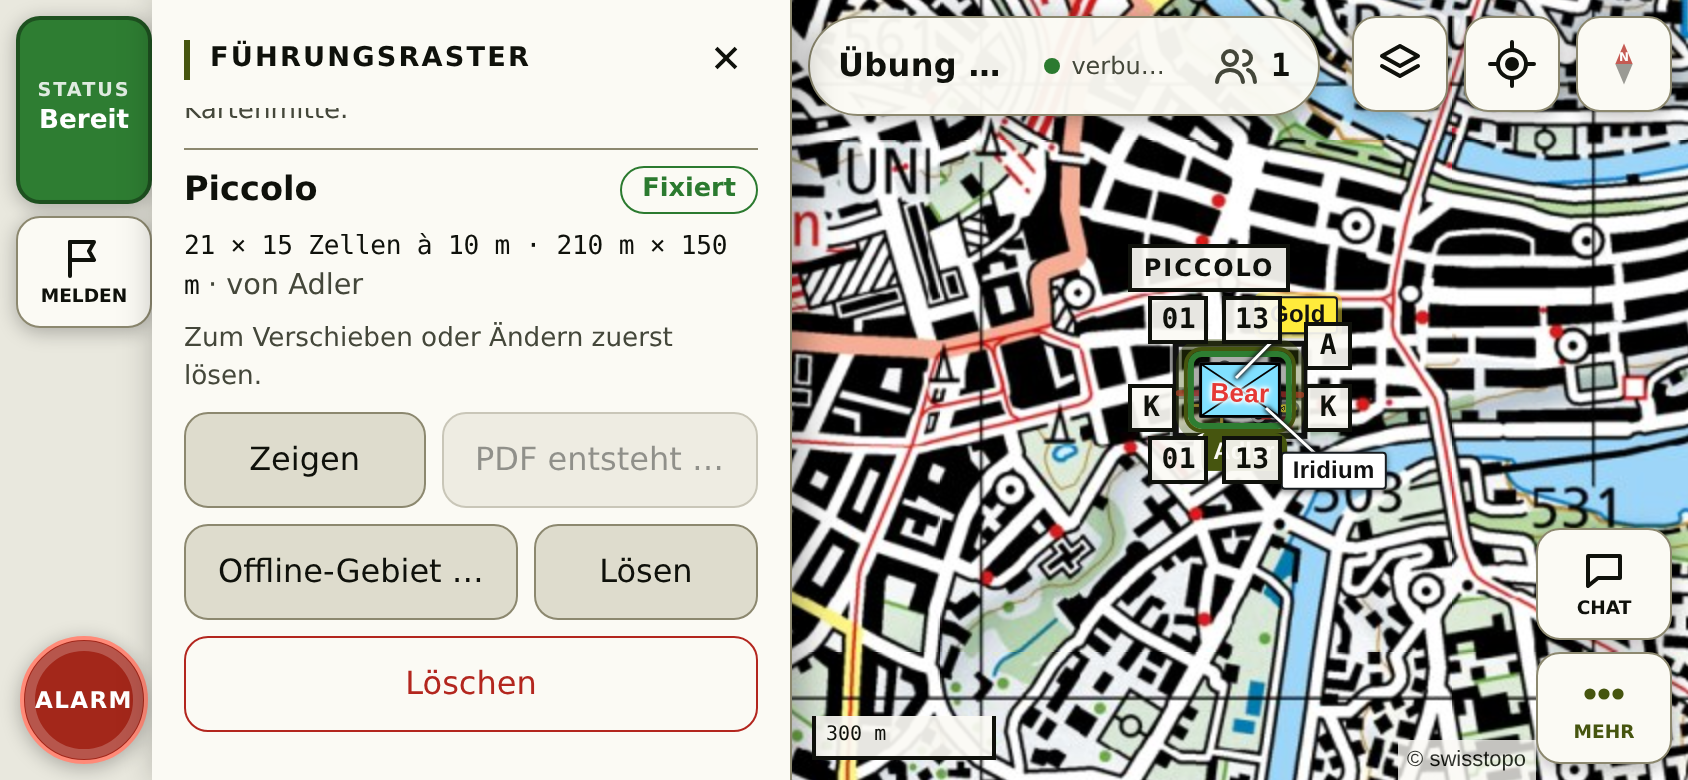
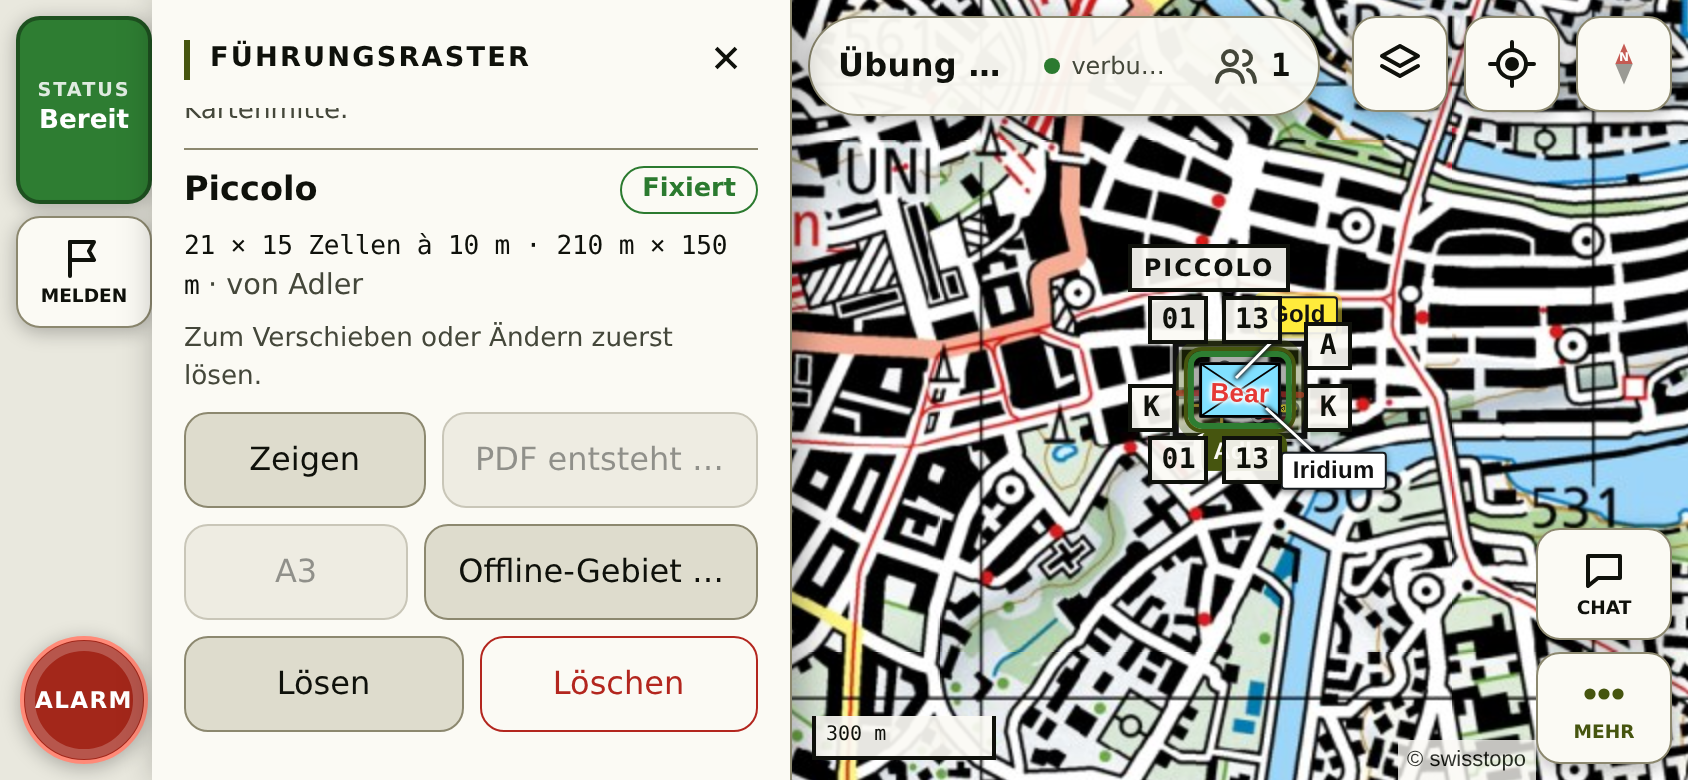
feat: Raster-PDF wahlweise A3, Strassen mit Linie
Claude-Session: https://claude.ai/code/session_01Fo5QxxrixuCWEFZHSUx93F

Changed region(s): [[0.0924, 0.6462, 0.4005, 0.9538]]

diff --git a/client/src/features/raster/ausdruck.ts b/client/src/features/raster/ausdruck.ts
@@ -10,10 +10,10 @@ import { drossel, PARALLEL } from '../offline/laden.ts';
 import { FASSADE_FARBE } from '../taufe/fassaden.ts';
 import { FAMILIE_FARBE, LABEL_RANG, labelAnker, platziere, polygoneVon, taufFeatures, ZIEL_FARBE, type LabelWunsch } from '../taufe/darstellung.ts';
 import type { Xy } from './beschriftung.ts';
-import { blatt, blattFelder, dateiName, TILE, kachelPlan, type Blatt, type Feld, type KachelPlan, type SeitenArt } from './druck.ts';
+import { A4_QUER, blatt, blattFelder, dateiName, TILE, kachelPlan, type Blatt, type Feld, type KachelPlan, type Format, type SeitenArt } from './druck.ts';
 import { pdfAusJpegs } from './pdf.ts';
 
-/** 200 dpi: A4 quer = 2339 × 1654 px je Seite */
+/** 200 dpi: A4 quer = 2339 × 1654 px je Seite, A3 quer 3308 × 2339 */
 const PX_JE_PT = 200 / 72;
 const DUNKEL = '#161b1f';
 /** Grau der Kopffelder (Vorlage) */
@@ -174,6 +174,8 @@ function zeichneFelder(ctx: CanvasRenderingContext2D, r: Raster, b: Blatt, felde
 
 const ALPHA_FLAECHE: Partial<Record<string, number>> = { wald: 0.38, gebaeude: 0.14, gewaesser: 0.28 };
 
+const teile = (g: GeoJSON.Geometry): Pos[][] => (g.type === 'LineString' ? [g.coordinates as Pos[]] : (g as GeoJSON.MultiLineString).coordinates as Pos[][]);
+
 function zeichneTaufen(ctx: CanvasRenderingContext2D, taufen: Taufe[], b: Blatt) {
   const p = ([lon, lat]: Pos): Xy => b.zu(zuLv95({ lat, lon }));
   const pfad = (ringe: Pos[][]) => {
@@ -199,9 +201,12 @@ function zeichneTaufen(ctx: CanvasRenderingContext2D, taufen: Taufe[], b: Blatt)
         }
       }
     } else if (rolle === 'linie') {
-      if (familie === 'strasse') continue; // Vorlage: Strassen nur als rote Schrift entlang der Achse
-      const teile = g.type === 'LineString' ? [g.coordinates as Pos[]] : (g as GeoJSON.MultiLineString).coordinates as Pos[][];
-      for (const t of teile) {
+      if (familie === 'strasse') {
+        // dünne Linie unter der roten Schrift: zeigt die Ausdehnung langer Abschnitte
+        for (const t of teile(g)) (linie(ctx, t.map(p), '#fff', 2.2, 0.45), linie(ctx, t.map(p), farbe, 0.9, 0.8));
+        continue;
+      }
+      for (const t of teile(g)) {
         linie(ctx, t.map(p), DUNKEL, 3.2, 0.35);
         linie(ctx, t.map(p), farbe, 1.6, 0.75);
       }
@@ -308,10 +313,11 @@ async function seite(r: Raster, b: Blatt, karte: Karte, art: SeitenArt, lage: st
   canvas.width = Math.round(b.format.w * PX_JE_PT);
   canvas.height = Math.round(b.format.h * PX_JE_PT);
   const ctx = canvas.getContext('2d')!;
-  const basis = () => ctx.setTransform(PX_JE_PT, 0, 0, PX_JE_PT, 0, 0);
+  const px = PX_JE_PT * b.format.k; // Pixel je Layoutpunkt
+  const basis = () => ctx.setTransform(px, 0, 0, px, 0, 0);
   basis();
   ctx.fillStyle = '#fff';
-  ctx.fillRect(0, 0, b.format.w, b.format.h);
+  ctx.fillRect(0, 0, b.format.w / b.format.k, b.format.h / b.format.k);
   const { x, y, w, h } = b.rahmen;
   ctx.save();
   ctx.beginPath();
@@ -337,9 +343,9 @@ const SEITEN: [Basiskarte, SeitenArt[]][] = [
 ];
 
 /** PDF mit drei Seiten (Luftbild, SpotMap, Landeskarte). `fehlen`: Kacheln, die weder offline noch im Netz da waren. */
-export async function rasterPdf(r: Raster, lage: string, taufen: Taufe[], datum = new Date()): Promise<{ blob: Blob; name: string; fehlen: number }> {
-  const b = blatt(r);
-  const plan = kachelPlan(b, PX_JE_PT);
+export async function rasterPdf(r: Raster, lage: string, taufen: Taufe[], datum = new Date(), format: Format = A4_QUER): Promise<{ blob: Blob; name: string; fehlen: number }> {
+  const b = blatt(r, format);
+  const plan = kachelPlan(b, PX_JE_PT * format.k);
   const px = { pxW: Math.round(b.format.w * PX_JE_PT), pxH: Math.round(b.format.h * PX_JE_PT) };
   const seiten = [];
   let fehlen = 0;

diff --git a/client/src/features/raster/druck.ts b/client/src/features/raster/druck.ts
@@ -6,9 +6,10 @@ import type { RasterArt } from '../../../../shared/protocol.ts';
 import { RASTER_NAME, spaltenName, vonLv95, rasterMitteLv95, zeilenName, type Lv95, type RasterGeo } from '../../../../shared/raster.ts';
 import type { Xy } from './beschriftung.ts';
 
-export type Format = { name: string; w: number; h: number };
-export const A4_QUER: Format = { name: 'A4', w: 842, h: 595 };
-// ponytail: nur A4 in der Bedienung; A3 quer wäre { name: 'A3', w: 1191, h: 842 }, alles Weitere rechnet sich gleich.
+/** Blatt in Punkt; `k` = Vergrösserung gegenüber A4. Geometrie und Schriften rechnen in A4-Punkten (Blatt ÷ k), das Canvas skaliert um k. */
+export type Format = { name: string; w: number; h: number; k: number };
+export const A4_QUER: Format = { name: 'A4', w: 842, h: 595, k: 1 };
+export const A3_QUER: Format = { name: 'A3', w: 1191, h: 842, k: 1191 / 842 };
 
 export type Rechteck = { x: number; y: number; w: number; h: number };
 /** Punkt auf Papier in Metern */
@@ -31,7 +32,7 @@ export type Blatt = {
   tabelle: Rechteck;
   /** Massstabszahl N (1:N) */
   massstab: number;
-  /** Blattpunkte je Meter im Gelände */
+  /** Layoutpunkte (A4-Punkte) je Meter im Gelände */
   ptJeM: number;
   zu: (p: Lv95) => Xy;
   von: (p: Xy) => Lv95;
@@ -48,15 +49,17 @@ export function runderMassstab(n: number): number {
  * Karte, Spaltenköpfe, Lagezeile; waagrecht: Zeilenköpfe, Karte, Zeilenköpfe.
  */
 export function blatt(r: RasterGeo, format: Format = A4_QUER): Blatt {
-  const platzW = format.w - 2 * RAND - 2 * ZEILE_W;
-  const platzH = format.h - 2 * RAND - 4 * BAND;
+  const lw = format.w / format.k;
+  const lh = format.h / format.k;
+  const platzW = lw - 2 * RAND - 2 * ZEILE_W;
+  const platzH = lh - 2 * RAND - 4 * BAND;
   const breiteM = r.spalten * r.zellM;
   const hoeheM = r.zeilen * r.zellM;
-  const massstab = runderMassstab(Math.max(breiteM / platzW, hoeheM / platzH) / M_JE_PT);
-  const ptJeM = 1 / (massstab * M_JE_PT);
+  const massstab = runderMassstab(Math.max(breiteM / platzW, hoeheM / platzH) / (M_JE_PT * format.k));
+  const ptJeM = 1 / (massstab * M_JE_PT * format.k);
   const mitte = rasterMitteLv95(r);
-  const cx = format.w / 2;
-  const cy = format.h / 2;
+  const cx = lw / 2;
+  const cy = lh / 2;
   const zu = (p: Lv95): Xy => ({ x: cx + (p.e - mitte.e) * ptJeM, y: cy - (p.n - mitte.n) * ptJeM });
   const von = (p: Xy): Lv95 => ({ e: mitte.e + (p.x - cx) / ptJeM, n: mitte.n - (p.y - cy) / ptJeM });
   const ol = zu({ e: r.e, n: r.n });

diff --git a/client/src/features/raster/Panel.svelte b/client/src/features/raster/Panel.svelte
@@ -57,11 +57,12 @@
   const passt = (r: Raster, zeilen: number, spalten: number, zellM = r.zellM) => Math.max(zeilen, spalten) * zellM <= RASTER_MAX_AUSDEHNUNG_M;
   /** Art, deren PDF gerade entsteht */
   let pdfLaeuft = $state<RasterArt | null>(null);
-  async function alsPdf(r: Raster) {
+  async function alsPdf(r: Raster, a3 = false) {
     pdfLaeuft = r.art;
     try {
       const { rasterPdf, speichere } = await import('./ausdruck.ts'); // PDF-Druck erst bei Bedarf laden
-      const { blob, name: datei, fehlen } = await rasterPdf(r, store.lage?.name ?? 'Lage', [...store.taufen.values()]);
+      const { A3_QUER, A4_QUER } = await import('./druck.ts');
+      const { blob, name: datei, fehlen } = await rasterPdf(r, store.lage?.name ?? 'Lage', [...store.taufen.values()], new Date(), a3 ? A3_QUER : A4_QUER);
       if (!(await speichere(blob, datei))) toast('PDF braucht eine neuere App-Version – im Browser öffnen.', 5000);
       else if (fehlen) toast(`PDF erstellt, ${fehlen} Kartenkacheln fehlen (offline?).`, 5000);
     } catch (e) {
@@ -127,6 +128,7 @@
           <div class="aktionen">
             <button onclick={() => zeigeRaster(r)}>Zeigen</button>
             <button disabled={pdfLaeuft !== null} onclick={() => alsPdf(r)}>{pdfLaeuft === art ? 'PDF entsteht …' : 'Als PDF'}</button>
+            <button disabled={pdfLaeuft !== null} title="PDF auf A3 quer" onclick={() => alsPdf(r, true)}>A3</button>
             <button onclick={() => offlineVorschlagen(r)}>Offline-Gebiet …</button>
             {#if r.fixiert && darfFixieren(r)}<button onclick={() => ok({ typ: 'raster.fixieren', art, fixiert: false })}>Lösen</button>{/if}
             {#if darfFixieren(r)}<button class="gefahr" onclick={() => (loeschenFragen = art)}>Löschen</button>{/if}

diff --git a/client/src/features/raster/druck.test.ts b/client/src/features/raster/druck.test.ts
@@ -1,6 +1,6 @@
 import { describe, expect, it } from 'vitest';
 import { vonLv95 } from '../../../../shared/raster.ts';
-import { A4_QUER, affin, BAND, blatt, blattFelder, dateiName, kachelPlan, massstabText, mercator, RAND, runderMassstab, TILE, ZEILE_W, type Rechteck } from './druck.ts';
+import { A3_QUER, A4_QUER, affin, BAND, blatt, blattFelder, dateiName, kachelPlan, massstabText, mercator, RAND, runderMassstab, TILE, ZEILE_W, type Rechteck } from './druck.ts';
 import { pdfAusJpegs } from './pdf.ts';
 
 const GRANDE = { art: 'grande' as const, e: 2_600_000, n: 1_200_600, zeilen: 15, spalten: 21, zellM: 80 };
@@ -39,6 +39,24 @@ describe('Blatt A4 quer', () => {
     expect(blatt(PICCOLO).massstab).toBe(900);
     // 1 m im Gelände bei 1:900 = 1000/900 mm
     expect(blatt(PICCOLO).ptJeM).toBeCloseTo(72 / 0.0254 / 900, 6);
+  });
+});
+
+describe('Blatt A3 quer', () => {
+  it('kleinerer runder Massstab, gleiche Schriften/Köpfe (Layout in A4-Punkten), Tabelle mittig im Blatt', () => {
+    expect(blatt(GRANDE, A3_QUER).massstab).toBe(5000);
+    expect(blatt(PICCOLO, A3_QUER).massstab).toBe(650);
+    const b = blatt(GRANDE, A3_QUER);
+    const lw = A3_QUER.w / A3_QUER.k;
+    expect(lw).toBeCloseTo(A4_QUER.w, 6);
+    expect(b.tabelle.x + b.tabelle.w / 2).toBeCloseTo(lw / 2, 6);
+    expect(b.tabelle.h).toBe(b.rahmen.h + 4 * BAND);
+    // 1 m im Gelände = 1000/5000 mm auf dem A3-Blatt = ptJeM · k Blattpunkte
+    expect(b.ptJeM * A3_QUER.k).toBeCloseTo(72 / 0.0254 / 5000, 6);
+  });
+  it('Kachelplan: A3 nutzt 200 dpi auf dem Papier, Stufe mindestens wie A4', () => {
+    const px = 200 / 72;
+    expect(kachelPlan(blatt(GRANDE, A3_QUER), px * A3_QUER.k).z).toBeGreaterThanOrEqual(kachelPlan(blatt(GRANDE), px).z);
   });
 });
 

diff --git a/e2e/raster-pdf.e2e.ts b/e2e/raster-pdf.e2e.ts
@@ -96,6 +96,16 @@ test('Piccolo «Als PDF»: Datei mit Luftbild, SpotMap und Landeskarte', async (
   for (const s of seiten) expect([...s.subarray(0, 2)]).toEqual([0xff, 0xd8]);
   await expect(piccolo.getByRole('button', { name: 'Als PDF' })).toBeEnabled();
 
+  // A3: gültiges PDF mit drei Seiten im A3-Format
+  const a3 = p.waitForEvent('download', { timeout: 120_000 });
+  await piccolo.getByRole('button', { name: 'A3' }).click();
+  const pdf3 = readFileSync((await (await a3).path())!);
+  expect(pdf3.subarray(0, 5).toString()).toBe('%PDF-');
+  expect(pdf3.toString('latin1')).toContain('/Count 3');
+  expect(pdf3.toString('latin1')).toContain('/MediaBox [0 0 1191 842]');
+  expect(seitenbilder(pdf3)).toHaveLength(3);
+  await expect(piccolo.getByRole('button', { name: 'A3' })).toBeEnabled();
+
   await bild(p, seiten[0], 'luftbild');
   await bild(p, seiten[1], 'spotmap');
   await bild(p, seiten[2], 'landeskarte');

diff --git a/docs/spec.md b/docs/spec.md
@@ -199,21 +199,21 @@ Zweck: ein für die Aktion fixiertes Gitter, damit auch Leute nur mit Funk präz
 - GeoJSON-Export der Leitung: je Raster ein Feature `art: 'fuehrungsraster'` mit dem Rahmen als Polygon und `raster`, `lv95 {e, n}`, `zeilen`, `spalten`, `zellM`, `fixiert`.
 
 ### PDF-Ausdruck (`features/raster/ausdruck.ts`, Logik in `druck.ts`, `pdf.ts`)
-- Panel «Führungsraster» › je Raster «Als PDF» (ein Tipp, für alle, die das Raster sehen; auch eine Vorschau). Während es entsteht: «PDF entsteht …».
-- Ein PDF je Raster, A4 quer, drei Seiten in der Reihenfolge der Vorlage: **Luftbild**, **SpotMap** (Luftbild mit Taufen, Fassadenlinien, Stosspfeilen und Namen) und **Landeskarte**, je mit Raster. Keine Einstufung.
+- Panel «Führungsraster» › je Raster «Als PDF» (A4, ein Tipp, für alle, die das Raster sehen; auch eine Vorschau) und daneben der kleine Knopf «A3» (A3 quer, ebenfalls ein Tipp, kein Dialog). Während es entsteht: «PDF entsteht …».
+- Ein PDF je Raster, A4 quer (Vorgabe) oder A3 quer, drei Seiten in der Reihenfolge der Vorlage: **Luftbild**, **SpotMap** (Luftbild mit Taufen, Fassadenlinien, Stosspfeilen und Namen) und **Landeskarte**, je mit Raster. Keine Einstufung.
 - Aufbau wie Juans Vorlage (31.10. abgeglichen): das Raster ist eine Tabelle, die Karte füllt genau den Rahmen (nichts ausserhalb). Rundum Felder (`blattFelder()` in `druck.ts`):
   - oben links Quadranten-Legende A B / C D (2 × 2 Felder), oben rechts Nordpfeil (Windrose N/E/S/W);
   - Titelzeile über den Spalten in Dritteln: Massstabsbalken (Doppelpfeil über 5 von 7 Spalten, z.B. «50 m» beim Piccolo, «400 m» beim Grande, daneben «1:900») | Seitenart («LUFTBILD», «SPOTMAP», «LANDESKARTE») | Rastername («PICCOLO»). Wo die Vorlage die Einstufung hat, steht die Seitenart;
   - Spaltenköpfe oben weiss, unten grau, je eine Zelle breit; Zeilenköpfe links und rechts grau mit weisser Schrift (bei schmalen Zellen jede k-te, das Feld deckt k Zellen). Ohne Seitenfarben (die Vorlage hat beim Piccolo rote/grüne Zeilenköpfe und schwarze Spaltenköpfe unten);
   - Fusszeile: Lagename mittig, links Zelle und Spalten × Zeilen, rechts Datum.
-- Blatt nordausgerichtet in LV95: Raster achsparallel, Tabelle mittig, Rand 12 pt (≈ 4 mm), Kopfzeilen 20 pt, Zeilenköpfe 32 pt; kleinster runder Massstab (Mantisse auf 0,5 gerundet, z.B. Grande 21 × 15 à 80 m → 1:7'000, Piccolo à 10 m → 1:900). Zelllinien dünn schwarz ohne Saum und ohne Viertellinien (wie die Vorlage), Rahmen und Tabelle kräftig.
-- SpotMap wie die Vorlage beschriftet: Namen in Grossbuchstaben, Gebäude im braunen Kästchen mit weisser Schrift und Führungslinie, Zielobjekte gelb, Wald dunkelbraun, Strassen nur als rote Schrift entlang der Achse (ohne Linie). Fassaden und Stosspfeile wie auf der Karte (nicht in der Vorlage, Entscheid «Stossrichtung/Fassaden»).
+- Blatt nordausgerichtet in LV95: Raster achsparallel, Tabelle mittig, Rand 12 pt (≈ 4 mm), Kopfzeilen 20 pt, Zeilenköpfe 32 pt; kleinster runder Massstab (Mantisse auf 0,5 gerundet, z.B. Grande 21 × 15 à 80 m → 1:7'000, Piccolo à 10 m → 1:900; A3: derselbe Rechenweg, Grande 1:5'000, Piccolo 1:650). A3 = A4-Layout um ×1,414 vergrössert (`Format.k`): Köpfe, Schriften und Linienstärken wachsen mit dem Blatt, nur der Massstab wird neu gewählt; Canvas 3308 × 2339 px. Zelllinien dünn schwarz ohne Saum und ohne Viertellinien (wie die Vorlage), Rahmen und Tabelle kräftig.
+- SpotMap wie die Vorlage beschriftet: Namen in Grossbuchstaben, Gebäude im braunen Kästchen mit weisser Schrift und Führungslinie, Zielobjekte gelb, Wald dunkelbraun, Strassen als rote Schrift entlang der Achse plus dünne rote Linie (weisser Saum, unter der Schrift), damit man die Ausdehnung langer Abschnitte sieht. Fassaden und Stosspfeile wie auf der Karte (nicht in der Vorlage, Entscheid «Stossrichtung/Fassaden»).
 - Gezeichnet auf ein Canvas (200 dpi), keine zweite Karte: Kacheln von Luftbild bzw. Landeskarte (Web-Mercator, Stufe passend zur Auflösung, höchstens z19) per affiner Abbildung aufs LV95-Blatt. Kacheln zuerst aus den Offline-Gebieten, sonst aus dem Netz mit der Drossel der Offline-Gebiete (in der PWA über den Kachel-Cache); je Karte nur so lange im Speicher, wie ihre Seiten brauchen. Fehlende Kacheln bleiben grau, Hinweis «… Kartenkacheln fehlen».
 - PDF selbst geschrieben (je Seite ein JPEG, keine neue Abhängigkeit). Dateiname `<lage>-<art>-<datum>.pdf`.
 - Browser/PWA: Download. Android-App: `window.LagebildDatei.teile()` aus `MainActivity` legt die Datei in den Cache und öffnet den Teilen-Dialog (speichern, senden, drucken); der WebView selbst kennt weder Downloads noch `window.print()`. Ältere App ohne diese Brücke: Hinweis, im Browser zu öffnen.
 
 ### Später
-A3 im PDF (in `druck.ts` nur ein anderes Format, bräuchte eine Auswahl); SpotMap ohne Raster als Übersicht (letzte Seite der Vorlage); Landeskarte als dritte Seite: erledigt (31.10.). Offline-Gebiet aus dem Raster: erledigt (30.10.), Raster-Detail › «Offline-Gebiet …» belegt das Aufziehen mit dem Rahmen + 10 % Rand vor.
+A3 im PDF: erledigt (31.10.). SpotMap ohne Raster als Übersicht (letzte Seite der Vorlage); Landeskarte als dritte Seite: erledigt (31.10.). Offline-Gebiet aus dem Raster: erledigt (30.10.), Raster-Detail › «Offline-Gebiet …» belegt das Aufziehen mit dem Rahmen + 10 % Rand vor.
 
 ## Geländetaufe (30.10.2026, Entscheide im README «Geländetaufe & Führungsraster», «Stossrichtung/Fassaden», «Taufe-Details»)
 
